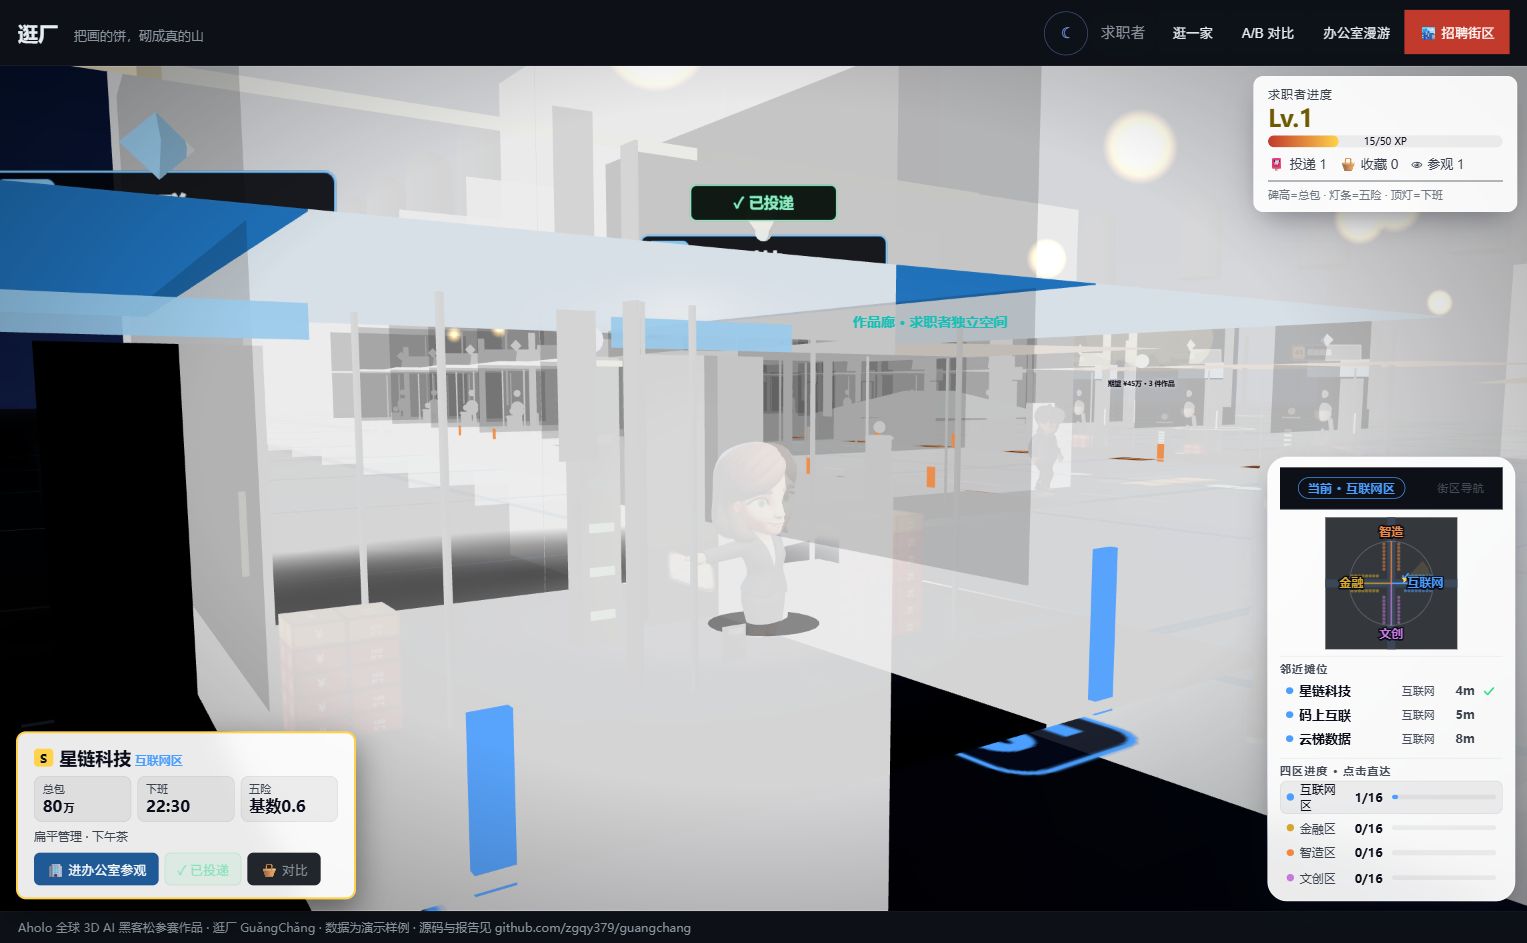
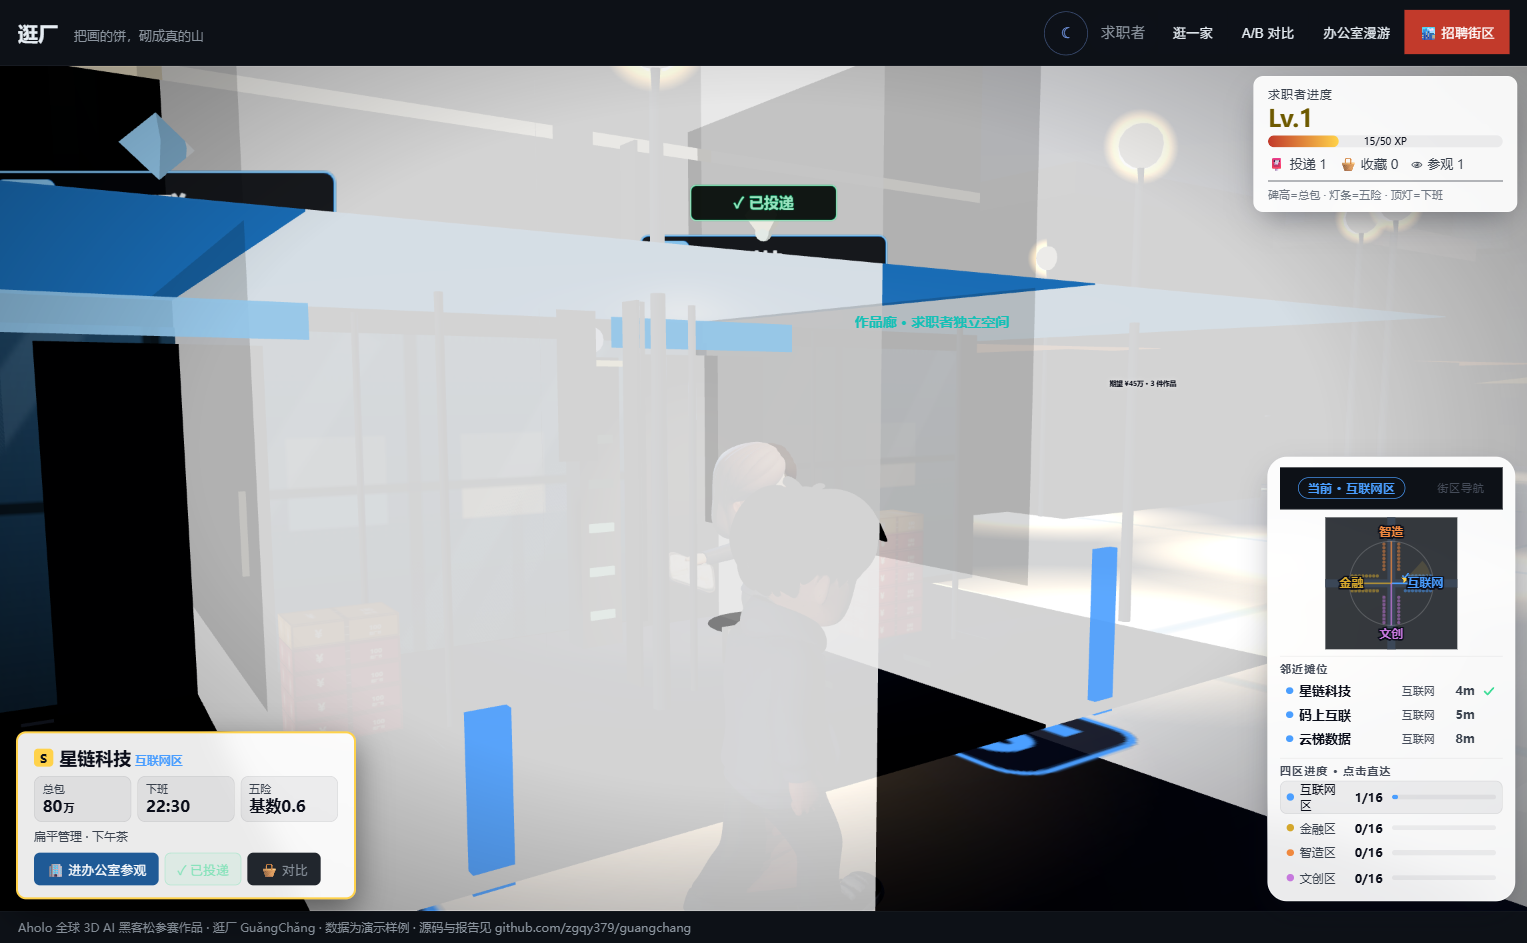
feat(street): R3 稳定化——夜景曝光取中值/单人地板提亮/移动端两行nowrap/导航z序60/夜间灯池与路牌夜面/摊位楼体 instanceColor 差异化（空间R3 7.5）

diff --git a/web/src/components/street/navigator.css b/web/src/components/street/navigator.css
@@ -233,7 +233,7 @@
     /* 展开态是模态浮层，必须盖住 HUD（z-index 15）：
        .nav-stack 自己带 z-index → 形成层叠上下文，面板内部的 z-index 只在栈内比较，
        所以要把整个栈抬到 15 以上（桌面不抬，桌面两者不重叠）。 */
-    z-index: 16;
+    z-index: 60;
     right: 8px;
     /* 圆钮落在右侧边缘、垂直居中：避开顶部 HUD 与底部名片卡（§8.4 铁律 2 垂直分区）。
        ⚠ 这里**不能用 transform: translateY(-50%)** —— 带 transform 的祖先会成为

diff --git a/web/src/App.tsx b/web/src/App.tsx
@@ -135,7 +135,7 @@ function Scene({
         {/* 大地板：让展台坐在"地面"上而非悬空，地砖路可延伸向远方（色入令牌 scene.hallFloor） */}
         <mesh rotation={[-Math.PI / 2, 0, 0]} position={[0, -0.02, 0]}>
           <planeGeometry args={[90, 90]} />
-          <meshStandardMaterial color={ColorSceneHallFloor} roughness={1} />
+          <meshStandardMaterial color={ColorSceneHallFloor} roughness={0.9} />
         </mesh>
         <CompanyPlot
           position={[0, 0, 0]}

diff --git a/web/src/styles.css b/web/src/styles.css
@@ -253,6 +253,11 @@ header h1 span {
   .mode-switch::-webkit-scrollbar {
     display: none; /* WebKit 隐藏滚动条 */
   }
+  .mode-switch {
+    /* ≤480px 改两行 nowrap：单行滚动会把尾部红色 CTA 裁出首屏（盲审 R3 短板②） */
+    flex-wrap: wrap;
+    max-width: 100%;
+  }
   .mode-switch button,
   .mode-switch .theme-lock {
     padding-left: 6px;

diff --git a/docs/design/design-audit-2026-10-25.md b/docs/design/design-audit-2026-10-25.md
@@ -116,3 +116,10 @@
 6. HUD 皮肤统一：夜间鸟瞰下进度卡浅底深字与整体深色 HUD 不一致
 
 **本轮工程副产品**（与分数无关但阻塞级）：修复街区自 01:03 起完全无法渲染的两颗雷（T13：Canvas 内裸 div / data-* 属性）与 M6b 起潜伏的黑棚顶（vertexColors 无 color 属性=黑，详见 lessons §11）。
+
+### R3 复测（2026-10-27 深夜 · 稳定化后）
+
+- **空间 R3（拆分版，只看街区昼/夜 8 张，评审已看稳定化后终版）**：空间 **7.5** / 视觉 **7.0**——「寻路闭环完整、空间心智模型易建立，距 8 分商用线一步之遥」；剩余短板：night/focus 白雾泛光淹没 HR（摊位内部多层发光叠加）、街道过宽偏空（车道 6–8m + 大片空沥青）、夜鸟瞰纯黑区与白色屋面鳍片噪点、玩家夜间剪影难追踪；附注：地面「互联网区 RECRUITING STREET」字样自行进方向看呈 180° 倒置（待修）。
+- **视觉 R3（16 图全量，评审看的是稳定化前构建）**：视觉 **6.5** / 空间 **7.0**——把单厂空场+地平线亮带、夜间 focus 过曝（当时 emissive 2.2/曝光 1.45 矫枉过正）、移动端 CTA 裁切列为前三。**稳定化已回应**：emissive 2.0 / 曝光 1.35（取 R2/R3 中值）、单人地板提亮 #171d28 + roughness 0.9、≤720px 顶栏两行 nowrap、导航展开层 z-index 16→60。
+- **三轮轨迹**：视觉 7.5/6.5 → 7.0/7.0 → 6.5（稳定化前）；空间 7.5/7.0 → 7.0/7.5 → **7.5**。空间稳步上行且过 7；视觉在 6.5–7.5 震荡，核心分歧 = 夜间特写曝光平衡与单厂空场，均为需要美术判断的平衡题，非参数微调可收敛。
+- **提交前遗留（下轮起手清单）**：① 夜间摊位内部发光分层（雨棚光/glow 面/LED 各自降档，特写不再白雾）；② 地面路牌文字朝向反转；③ 街道纵深道具（行道树/橱窗内容/次级地标）；④ 单人模式空间叙事（参数化道具群）。
